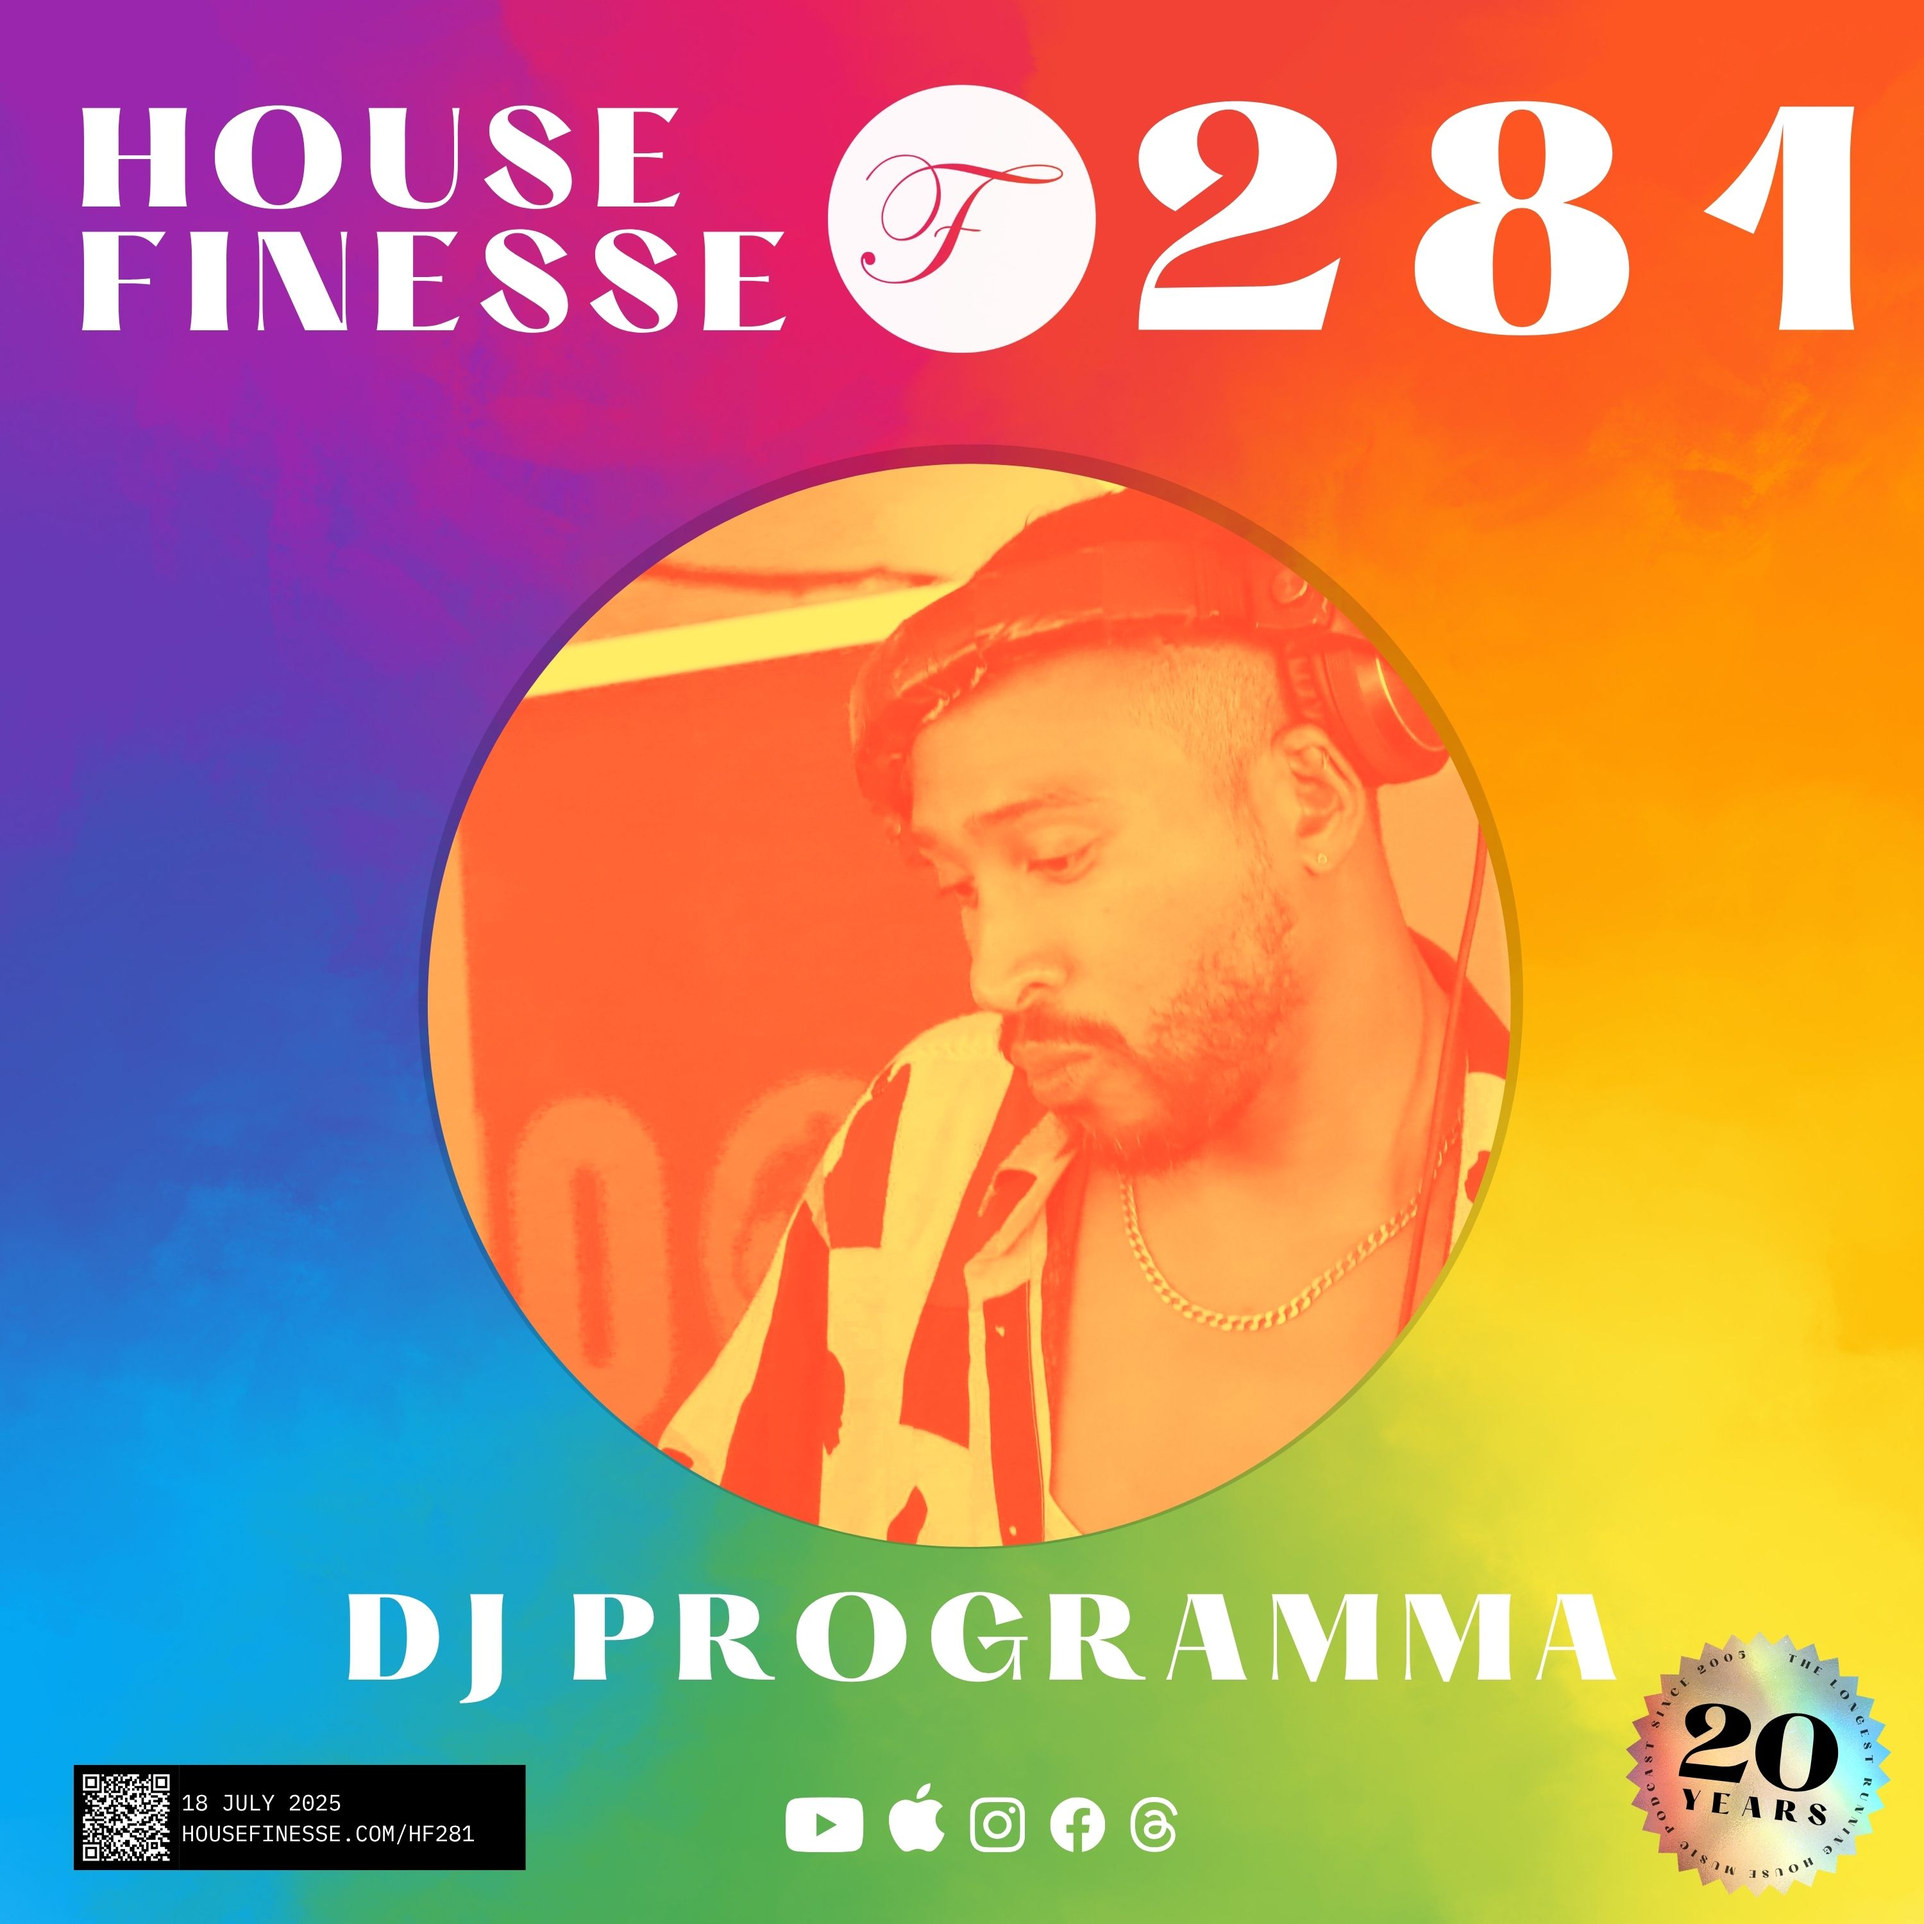
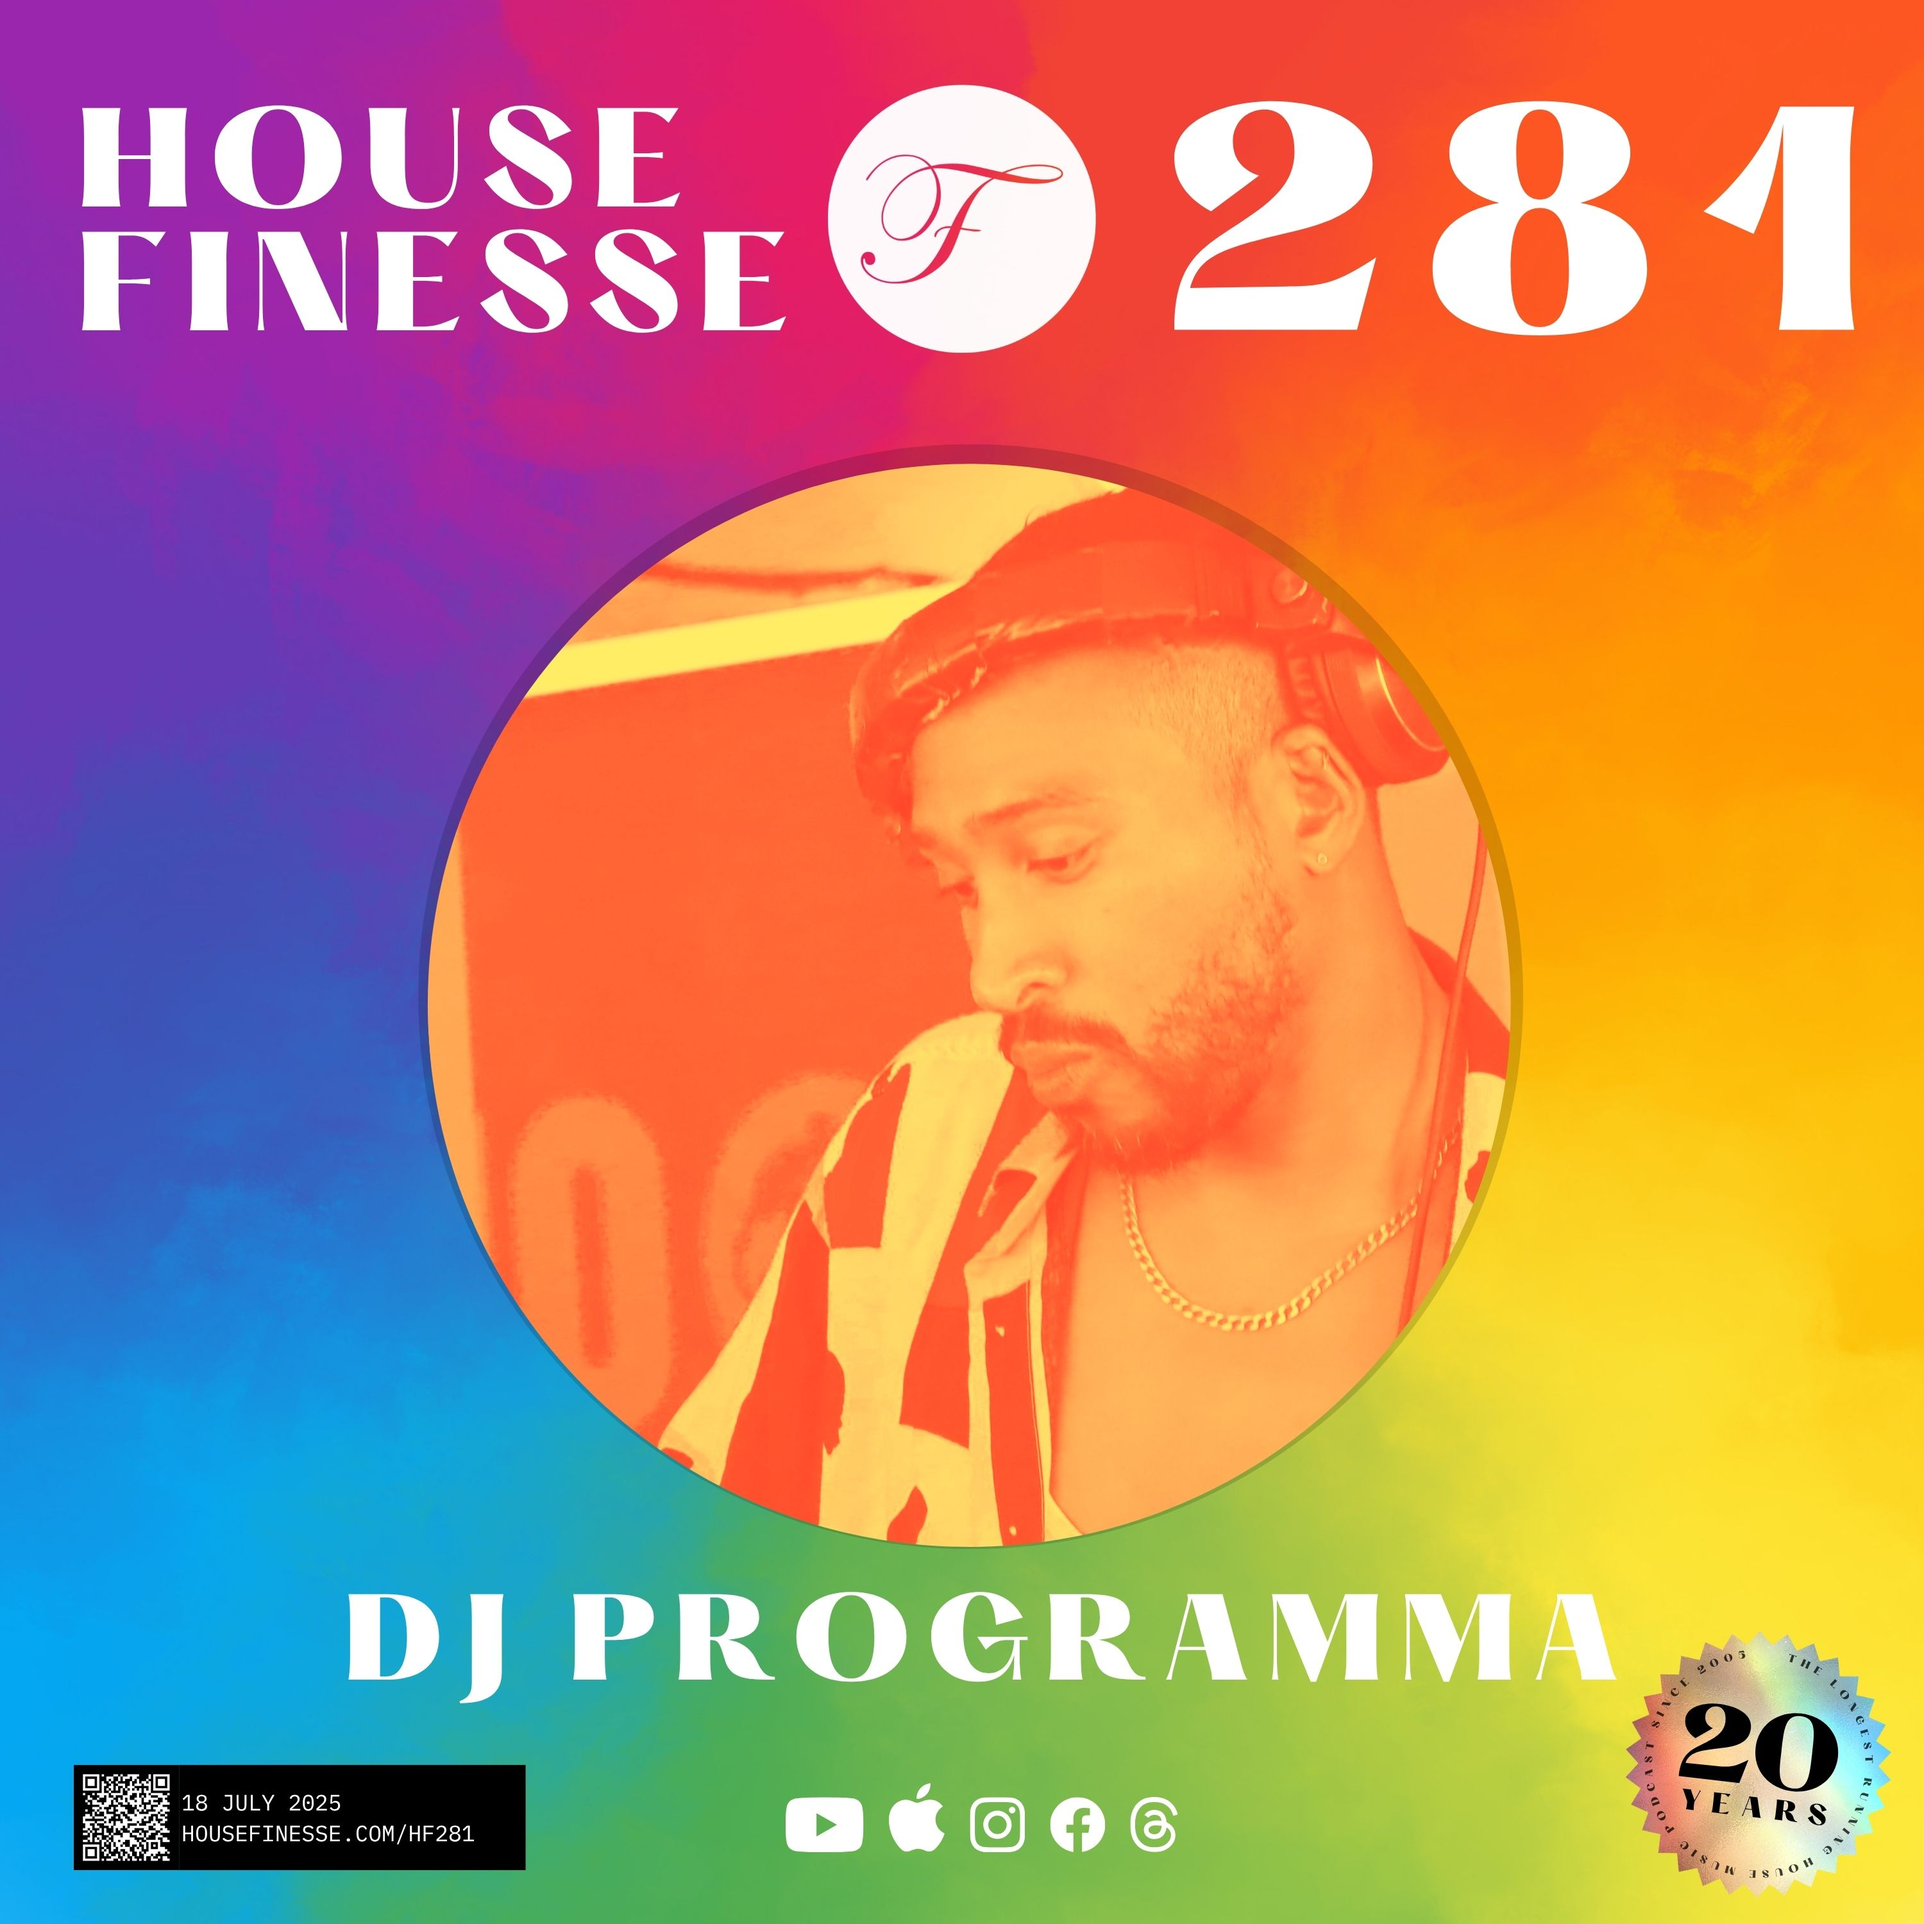
Update HF281 with cleaner artwork and correct to 3-step

Changed region(s): [[0.744, 0.031, 0.868, 0.186], [0.589, 0.031, 0.744, 0.186]]

diff --git a/src/posts/2025-07-18-hf281-with-dj-programma.md b/src/posts/2025-07-18-hf281-with-dj-programma.md
@@ -14,7 +14,7 @@ season: 3
 explicit: "no"
 duration: "00:50:51"
 ---
-This week’s guest mix comes from DJ Programma , a close friend of the show and a returning favourite. Expect a beautifully blended journey through jazzy, soulful and tribal grooves, with deep freestep flavours throughout.
+This week’s guest mix comes from DJ Programma , a close friend of the show and a returning favourite. Expect a beautifully blended journey through jazzy, soulful and tribal grooves, with deep 3-step flavours throughout.
 
 Turn it up and drift away with this uplifting, rhythmic set - perfect for summer evenings, late-night drives, or just vibing at your own pace.
 
